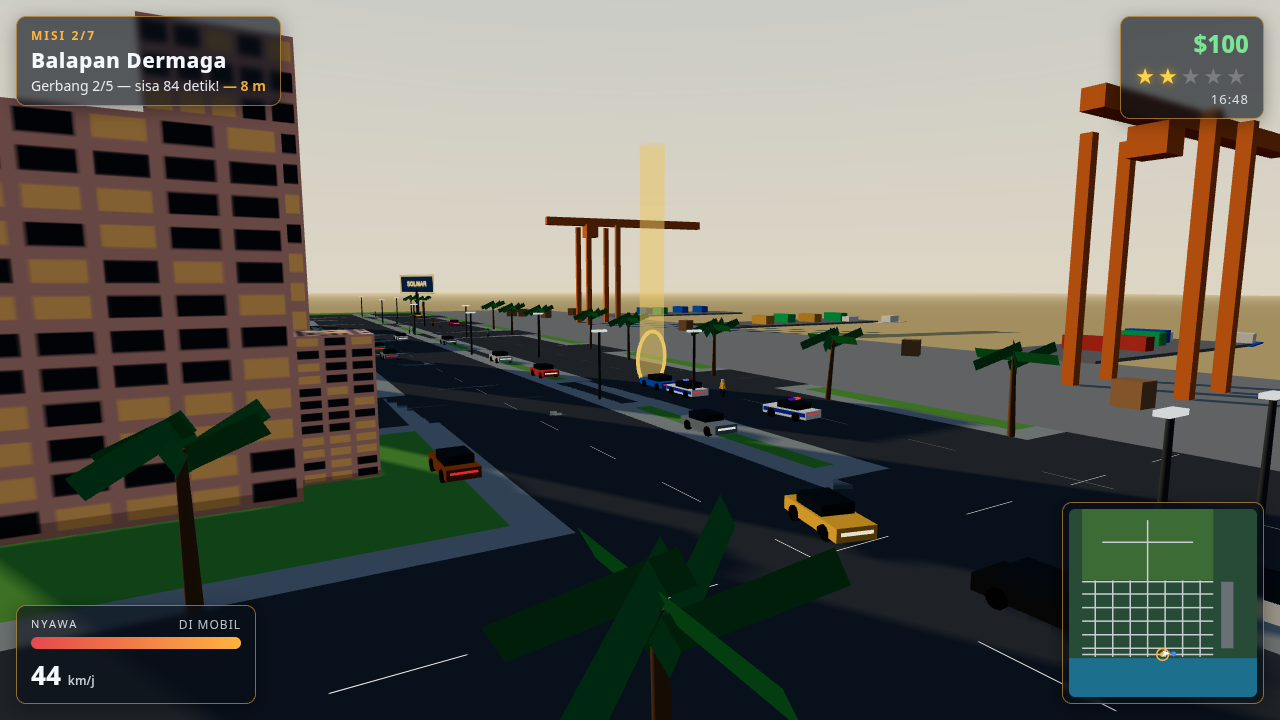
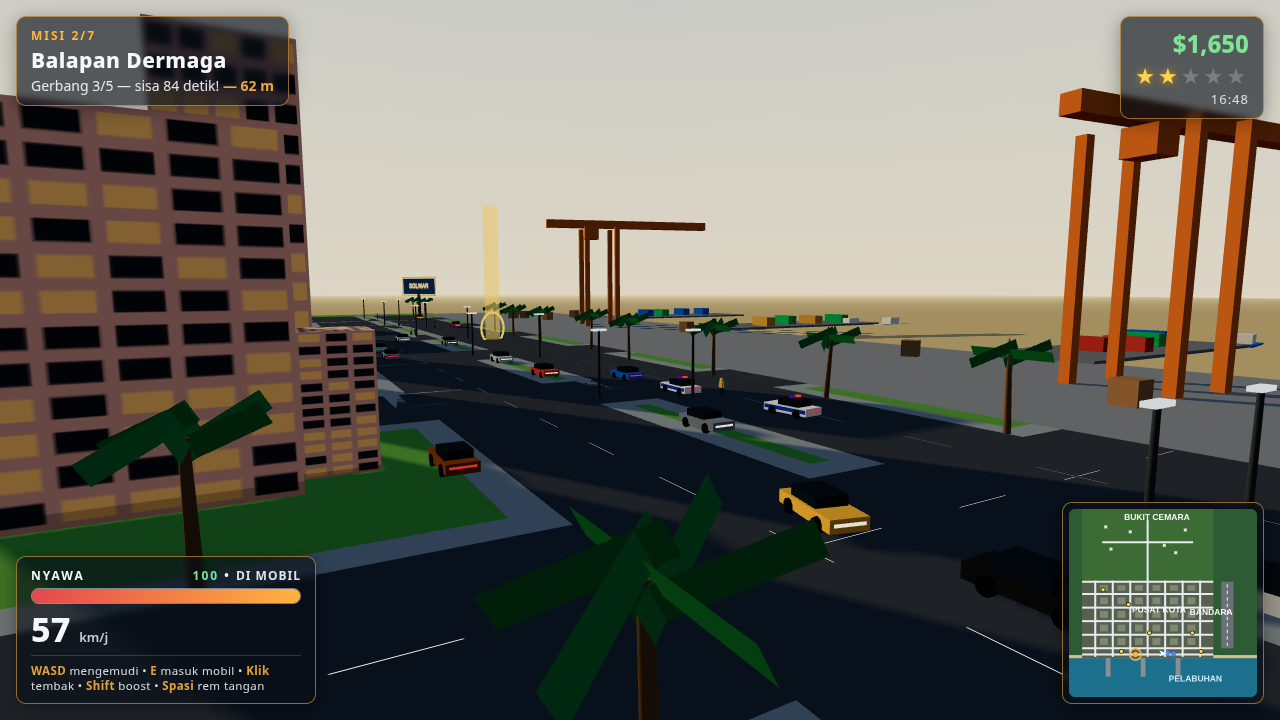
Round 4 fix: fuller HUD (NYAWA bar + number, big speedo, controls hint), real minimap (blocks, piers, labels, giver POIs), in-motion staged scenes (68/57/42 km/h), district2 as MISI SELESAI payout panel, staged cash via game.setCash, SPDX line in LICENSE

diff --git a/game/src/shots.js b/game/src/shots.js
@@ -57,15 +57,16 @@ export function stageScene(game, name) {
   switch (name) {
     case 'cover': {
       // Golden hour on the main avenue: the hero car rolls north in
-      // traffic between the towers, first mission on the HUD.
-      const car = heroCar(game, 0xe8641e, 43.4, 50, 0);
-      car.speed = 8;
-      laneCar(game, 0x2e6fd8, 43.4, 92, 0);
+      // traffic between the towers, first mission on the HUD. It starts
+      // back and already moving, so the speedo reads a real cruise.
+      const car = heroCar(game, 0xe8641e, 43.4, 20, 0);
+      car.speed = 16;
+      laneCar(game, 0x2e6fd8, 43.4, 130, 0);
       laneCar(game, 0xf2b035, 36.6, 118, Math.PI);
-      laneCar(game, 0xe8e6df, 43.4, 138, 0);
+      laneCar(game, 0xe8e6df, 43.4, 160, 0);
       laneCar(game, 0xd94f30, 36.6, 74, Math.PI);
       missions.index = 0;
-      hud.setCash(1250);
+      game.setCash(1250);
       game.objectiveOverride = {
         no: 'MISI 1/7 — Bang Jali, Pelabuhan',
         title: 'Paket Pertama',
@@ -74,51 +75,54 @@ export function stageScene(game, name) {
       };
       return {
         hour: 17.9,
-        camera: { pos: [36, 3.4, 32], look: [44, 1.6, 76] },
-        drive: { x: 43.4, z: 400, speed: 8.5 },
+        camera: { pos: [36, 3.4, 28], look: [44, 1.6, 76] },
+        drive: { x: 43.4, z: 400, speed: 19 },
       };
     }
     case 'harbor': {
       // Afternoon chase along the quay: two patrol cars on the player's
       // tail, the race's next gate ahead, cranes and boats behind.
       const car = heroCar(game, 0x2e6fd8, 62, -8.6, -Math.PI / 2);
-      car.speed = 12;
+      car.speed = 15;
       police.wanted = 1.6; // two stars
       stagedCop(game, 84, -8.6, -Math.PI / 2).speed = 12.5;
       stagedCop(game, 97, -15.2, -Math.PI / 2).speed = 12;
       missions.index = 1;
       missions.startMission({ police, rng: game.rng });
       if (missions.active) missions.active.checkpoint = 1;
-      hud.setCash(1650);
+      game.setCash(1650);
       return {
         hour: 16.8,
         // From above the city side, looking south-west across the chase
         // to the quay, the piers and the sea behind them. The height
         // keeps the palm crowns below the sightline.
         camera: { pos: [98, 10.5, 26], look: [26, 1, -15] },
-        drive: { x: -260, z: -8.6, speed: 12 },
+        drive: { x: -260, z: -8.6, speed: 16 },
       };
     }
     case 'district2': {
-      // Morning at the Bukit Cemara viewpoint: Raka on foot by his car,
-      // the whole city and the sea spread out below.
-      player.placeAt(2.5, 426, Math.PI);
+      // Morning at the Bukit Cemara viewpoint, the second the passenger
+      // delivery pays out: the MISI SELESAI panel over the district —
+      // sign on the left, Raka and his car on the right, the whole city
+      // and the sea spread out below. Proof of the full game loop.
+      player.placeAt(10.5, 427, Math.PI);
       const mesh = makeCarMesh(game.rng, { color: 0xe8641e });
       game.scene.add(mesh);
       const car = new Vehicle(mesh, {});
       car.angle = 0.5;
-      car.setPosition(7.5, 422.5, game.city.groundHeight);
+      car.setPosition(16, 423.5, game.city.groundHeight);
       car.parked = true;
       game.addVehicle(car);
-      bystander(game, -3.5, 427.5, Math.PI - 0.4);
-      bystander(game, -5.2, 425.8, Math.PI + 0.3);
+      bystander(game, -9, 428, Math.PI - 0.4);
+      bystander(game, -11, 426, Math.PI + 0.3);
       missions.index = 3;
-      hud.setCash(2100);
+      game.setCash(2100);
+      hud.showComplete({ mission: 'Antar ke Bukit Cemara', payout: 450, total: 2100 });
       game.objectiveOverride = {
-        no: 'MISI 4/7 — Nona Laras, Hotel Melati',
-        title: 'Antar ke Bukit Cemara',
-        text: 'Gardu pandang Bukit Cemara — kota Solmar dan teluknya di bawah sana.',
-        target: { x: 0, z: 420 },
+        no: 'MISI 5/7 — Orang Misterius',
+        title: 'Lima Koper',
+        text: 'Kumpulkan 5 koper yang tercecer di pusat kota. Cepat, jangan banyak tanya.',
+        target: { x: -102, z: 198 },
       };
       return {
         hour: 9.2,
@@ -127,10 +131,11 @@ export function stageScene(game, name) {
       };
     }
     case 'finale': {
-      // Night standoff: the last delivery, a roadblock across the avenue
-      // and the helicopter's searchlight pinned on the hero car.
+      // Night run at the blockade: the last delivery, the hero car
+      // rolling through the helicopter's searchlight toward the
+      // roadblock across the avenue — in motion, not parked.
       const car = heroCar(game, 0xe8641e, 3.4, 128, 0);
-      car.speed = 0;
+      car.speed = 6;
       police.wanted = 3.6; // four stars
       police.placeRoadblock(player, 0);
       if (police.roadblock) {
@@ -144,7 +149,7 @@ export function stageScene(game, name) {
       stagedCop(game, 9.5, 108, 0.1);
       police.spawnHeli();
       if (police.heli) police.heli.group.position.set(18, 31, 146);
-      hud.setCash(3200);
+      game.setCash(3200);
       game.objectiveOverride = {
         no: 'MISI 7/7 — Bang Jali, Pelabuhan',
         title: 'Paket Terakhir',
@@ -154,7 +159,7 @@ export function stageScene(game, name) {
       return {
         hour: 21.4,
         camera: { pos: [-16, 6, 100], look: [4, 6.5, 170] },
-        drive: null,
+        drive: { x: 3.4, z: 400, speed: 11.5 },
       };
     }
     default:

diff --git a/game/src/hud.js b/game/src/hud.js
@@ -17,6 +17,11 @@ export class Hud {
     this.starsEl = $('stars');
     this.clockEl = $('clock');
     this.healthFill = $('health-fill');
+    this.healthNum = $('health-num');
+    this.cpPanel = $('complete-panel');
+    this.cpMission = $('cp-mission');
+    this.cpPayout = $('cp-payout');
+    this.cpTotal = $('cp-total');
     this.speedEl = $('speed');
     this.gearEl = $('gear');
     this.toastEl = $('toast');
@@ -61,7 +66,22 @@ export class Hud {
   }
 
   setHealth(frac) {
-    this.healthFill.style.width = `${Math.max(0, Math.min(1, frac)) * 100}%`;
+    const f = Math.max(0, Math.min(1, frac));
+    this.healthFill.style.width = `${f * 100}%`;
+    this.healthNum.textContent = `${Math.round(f * 100)}`;
+  }
+
+  // The mission-complete payout panel: proof of the game loop, shown by
+  // the real completion flow and by the district2 screenshot staging.
+  showComplete({ mission, payout, total }) {
+    this.cpMission.textContent = mission;
+    this.cpPayout.textContent = `+$${Math.round(payout).toLocaleString('en-US')}`;
+    this.cpTotal.textContent = `$${Math.round(total).toLocaleString('en-US')}`;
+    this.cpPanel.classList.add('show');
+  }
+
+  hideComplete() {
+    this.cpPanel.classList.remove('show');
   }
 
   setSpeed(kmh, label) {
@@ -96,7 +116,7 @@ export class Hud {
   }
 
   // state: {px, pz, angle, target, cops:[{x,z}], heli:{x,z}|null,
-  //         thief:{x,z}|null, cases:[{x,z}], inCar}
+  //         thief:{x,z}|null, cases:[{x,z}], pois:[{x,z}], inCar}
   drawMinimap(state) {
     const ctx = this.map;
     const W = 376;
@@ -105,20 +125,54 @@ export class Hud {
     const mx = (x) => ((x + 180) / 430) * W;
     const mz = (z) => H - ((z + 150) / 610) * H;
 
-    ctx.fillStyle = '#274b36';
+    // Land base, then the sea with a sandy quay edge and grey piers.
+    ctx.fillStyle = '#2e5b34';
     ctx.fillRect(0, 0, W, H);
-    // Sea.
     ctx.fillStyle = '#1d6f8e';
     ctx.fillRect(0, mz(-24), W, H - mz(-24));
-    // Hill mass.
+    ctx.fillStyle = '#d9c08a';
+    ctx.fillRect(0, mz(-14), W, mz(-24) - mz(-14));
+    ctx.fillStyle = '#8a8f96';
+    for (const px of [-96, -16, 64]) {
+      ctx.fillRect(mx(px), mz(-24), mx(px + 11) - mx(px), mz(-84) - mz(-24));
+    }
+    // Downtown: an urban ground tone with a built-up panel on every
+    // block, so the grid reads as a city and not as lines on grass.
+    ctx.fillStyle = '#57604f';
+    ctx.fillRect(mx(-150), mz(228), mx(150) - mx(-150), mz(-24) - mz(228));
+    ctx.fillStyle = '#7d8771';
+    const ax = WORLD.avenueX;
+    const sz = WORLD.streetZ;
+    for (let i = 0; i < ax.length - 1; i++) {
+      for (let j = 0; j < sz.length - 1; j++) {
+        const x0 = ax[i] + WORLD.blockGap - 4;
+        const x1 = ax[i + 1] - WORLD.blockGap + 4;
+        const z0 = sz[j] + WORLD.blockGap - 4;
+        const z1 = sz[j + 1] - WORLD.blockGap + 4;
+        ctx.fillRect(mx(x0), mz(z1), mx(x1) - mx(x0), mz(z0) - mz(z1));
+      }
+    }
+    // Hill mass with its plateau villas.
     ctx.fillStyle = '#3d6b35';
     ctx.fillRect(mx(-150), mz(460), mx(150) - mx(-150), mz(228) - mz(460));
-    // Airstrip.
+    ctx.fillStyle = '#dcebcb';
+    for (const v of [[-84, 330], [-40, 386], [38, 342], [86, 392], [-96, 402], [64, 318]]) {
+      ctx.fillRect(mx(v[0]) - 3, mz(v[1]) - 3, 6, 6);
+    }
+    // Airstrip with a dashed centreline.
     ctx.fillStyle = '#6a7076';
     ctx.fillRect(mx(168), mz(224), mx(196) - mx(168), mz(8) - mz(224));
-    // Roads.
-    ctx.strokeStyle = '#c8cdd2';
-    ctx.lineWidth = 3;
+    ctx.strokeStyle = '#f2f4f6';
+    ctx.lineWidth = 2;
+    ctx.setLineDash([7, 6]);
+    ctx.beginPath();
+    ctx.moveTo(mx(182), mz(216));
+    ctx.lineTo(mx(182), mz(16));
+    ctx.stroke();
+    ctx.setLineDash([]);
+    // Roads, bright on top of the blocks.
+    ctx.strokeStyle = '#e8ecf0';
+    ctx.lineWidth = 4;
     ctx.beginPath();
     for (const x of WORLD.avenueX) {
       ctx.moveTo(mx(x), mz(-20));
@@ -135,6 +189,14 @@ export class Hud {
     ctx.moveTo(mx(-104), mz(352));
     ctx.lineTo(mx(104), mz(352));
     ctx.stroke();
+    // District labels.
+    ctx.font = '700 17px "Segoe UI", sans-serif';
+    ctx.fillStyle = 'rgba(255,255,255,0.95)';
+    ctx.fillText('PUSAT KOTA', mx(-36), mz(124));
+    ctx.fillText('BUKIT CEMARA', mx(-54), mz(424));
+    ctx.fillText('BANDARA', mx(96), mz(116));
+    ctx.fillStyle = 'rgba(215,242,255,0.95)';
+    ctx.fillText('PELABUHAN', mx(48), mz(-100));
 
     const dot = (x, z, color, r = 5) => {
       ctx.fillStyle = color;
@@ -142,6 +204,16 @@ export class Hud {
       ctx.arc(mx(x), mz(z), r, 0, Math.PI * 2);
       ctx.fill();
     };
+    // Mission givers as ringed gold POIs.
+    for (const p of state.pois ?? []) {
+      ctx.fillStyle = '#ffd34d';
+      ctx.beginPath();
+      ctx.arc(mx(p.x), mz(p.z), 4.2, 0, Math.PI * 2);
+      ctx.fill();
+      ctx.strokeStyle = 'rgba(24,18,2,0.9)';
+      ctx.lineWidth = 1.6;
+      ctx.stroke();
+    }
     for (const c of state.cases ?? []) dot(c.x, c.z, '#ffd34d', 4);
     if (state.thief) dot(state.thief.x, state.thief.z, '#ff4040', 6);
     for (const c of state.cops ?? []) dot(c.x, c.z, '#3d8bff', 5);

diff --git a/game/index.html b/game/index.html
@@ -40,13 +40,31 @@
   #stars .off { color: rgba(255,255,255,0.22); text-shadow: none; }
   #clock { font-size: 13px; opacity: 0.85; letter-spacing: 1px; }
 
-  #vitals { position: absolute; left: 16px; bottom: 16px; width: 240px; }
-  #vitals .bar-label { font-size: 11px; letter-spacing: 2px; opacity: 0.85; display: flex; justify-content: space-between; }
-  #health-track { height: 12px; border-radius: 6px; background: rgba(255,255,255,0.16); overflow: hidden; margin: 4px 0 8px; }
+  #vitals { position: absolute; left: 16px; bottom: 16px; width: 300px; }
+  #vitals .bar-label { font-size: 12px; font-weight: 700; letter-spacing: 2px; display: flex; justify-content: space-between; }
+  #vitals .bar-label #health-num { color: #7be495; }
+  #health-track { height: 16px; border-radius: 8px; background: rgba(255,255,255,0.16); border: 1px solid rgba(255,255,255,0.35); overflow: hidden; margin: 4px 0 8px; }
   #health-fill { height: 100%; width: 100%; background: linear-gradient(90deg, #e5484d, #ffb340); transition: width 0.18s; }
-  #speed { font-size: 26px; font-weight: 800; }
-  #speed small { font-size: 12px; font-weight: 600; opacity: 0.8; }
+  #speed { font-size: 34px; font-weight: 800; line-height: 1.05; }
+  #speed small { font-size: 13px; font-weight: 600; opacity: 0.8; }
   #gear { font-size: 12px; letter-spacing: 1px; opacity: 0.9; }
+  #controls-hint { margin-top: 7px; padding-top: 7px; border-top: 1px solid rgba(255,255,255,0.18); font-size: 11.5px; letter-spacing: 0.4px; opacity: 0.88; }
+  #controls-hint b { color: var(--gold); font-weight: 700; }
+
+  #complete-panel {
+    position: absolute; left: 50%; top: 44%; transform: translate(-50%, -50%);
+    text-align: center; padding: 22px 40px 20px; min-width: 380px; display: none;
+  }
+  #complete-panel.show { display: block; }
+  #complete-panel .cp-title { font-size: 36px; font-weight: 900; letter-spacing: 3px; color: var(--gold); text-shadow: 0 3px 0 rgba(0,0,0,0.45); }
+  #complete-panel .cp-mission { font-size: 18px; font-weight: 700; margin: 4px 0 12px; }
+  #complete-panel .cp-row { display: flex; justify-content: space-between; gap: 36px; font-size: 15.5px; padding: 3px 2px; }
+  #complete-panel .cp-row b { color: #7be495; }
+  #complete-panel .cp-btn {
+    margin-top: 14px; display: inline-block; border: 2px solid var(--gold); color: #131313;
+    background: linear-gradient(180deg, #ffc95e, #ff9d2e); font-size: 15px; font-weight: 800;
+    letter-spacing: 1px; padding: 9px 30px; border-radius: 9px;
+  }
 
   #minimap-wrap { position: absolute; right: 16px; bottom: 16px; padding: 6px; }
   #minimap { display: block; width: 188px; height: 188px; border-radius: 6px; }
@@ -120,9 +138,17 @@
     <div id="clock">06:00</div>
   </div>
   <div id="vitals" class="hud-panel">
-    <div class="bar-label"><span>NYAWA</span><span id="gear">DI JALAN</span></div>
+    <div class="bar-label"><span>NYAWA</span><span><span id="health-num">100</span> &bull; <span id="gear">DI JALAN</span></span></div>
     <div id="health-track"><div id="health-fill"></div></div>
     <div id="speed">0 <small>km/j</small></div>
+    <div id="controls-hint"><b>WASD</b> mengemudi &bull; <b>E</b> masuk mobil &bull; <b>Klik</b> tembak &bull; <b>Shift</b> boost &bull; <b>Spasi</b> rem tangan</div>
+  </div>
+  <div id="complete-panel" class="hud-panel">
+    <div class="cp-title">MISI SELESAI</div>
+    <div class="cp-mission" id="cp-mission">Misi</div>
+    <div class="cp-row"><span>Hadiah misi</span><b id="cp-payout">+$0</b></div>
+    <div class="cp-row"><span>Total uang</span><b id="cp-total">$0</b></div>
+    <div class="cp-btn">MISI BERIKUTNYA &#9656;</div>
   </div>
   <div id="minimap-wrap" class="hud-panel"><canvas id="minimap" width="376" height="376"></canvas></div>
   <div id="toast" class="hud-panel"></div>

diff --git a/game/src/main.js b/game/src/main.js
@@ -10,7 +10,7 @@ import { SoundBank } from './audio.js';
 import { Traffic } from './traffic.js';
 import { Player } from './player.js';
 import { Police } from './police.js';
-import { MissionRunner } from './missions.js';
+import { MissionRunner, MISSIONS } from './missions.js';
 import { Combat } from './combat.js';
 import { Hud } from './hud.js';
 import { stageScene, shotCamera, SCENE_NAMES } from './shots.js';
@@ -46,6 +46,8 @@ const game = {
   rng,
   objectiveOverride: null,
   addVehicle: (v) => extraVehicles.push(v),
+  // Staging sets the wallet directly; the HUD loop reads state.cash.
+  setCash: (n) => { state.cash = n; },
 };
 
 window.__GAME = game; // staging/debugging handle for tools/shoot.mjs
@@ -455,11 +457,14 @@ function frame() {
     if (state.mode === 'play') {
       missions.update(dt, now, { player, police, rng, world });
       for (const ev of missions.drainEvents()) {
-        if (ev.type === 'start') hud.toast(`Misi dimulai: ${ev.mission.title}`);
-        else if (ev.type === 'stage') hud.toast(ev.text);
+        if (ev.type === 'start') {
+          hud.hideComplete();
+          hud.toast(`Misi dimulai: ${ev.mission.title}`);
+        } else if (ev.type === 'stage') hud.toast(ev.text);
         else if (ev.type === 'complete') {
           state.cash += ev.payout;
           hud.banner('MISI SELESAI', `${ev.mission.title} — +$${ev.payout.toLocaleString('en-US')}`);
+          hud.showComplete({ mission: ev.mission.title, payout: ev.payout, total: state.cash });
           if (missions.allDone) hud.banner('CERITA TAMAT', 'Semua 7 misi selesai. Solmar milikmu, Raka.', 5200);
           saveGame();
         } else if (ev.type === 'fail') {
@@ -516,6 +521,7 @@ function frame() {
       heli: police.heli ? { x: police.heli.group.position.x, z: police.heli.group.position.z } : null,
       thief: missions.thief ? { x: missions.thief.mesh.position.x, z: missions.thief.mesh.position.z } : null,
       cases: missions.caseMeshes.filter((c) => c.visible).map((c) => ({ x: c.position.x, z: c.position.z })),
+      pois: MISSIONS.map((m) => m.giver),
     });
   }
 
